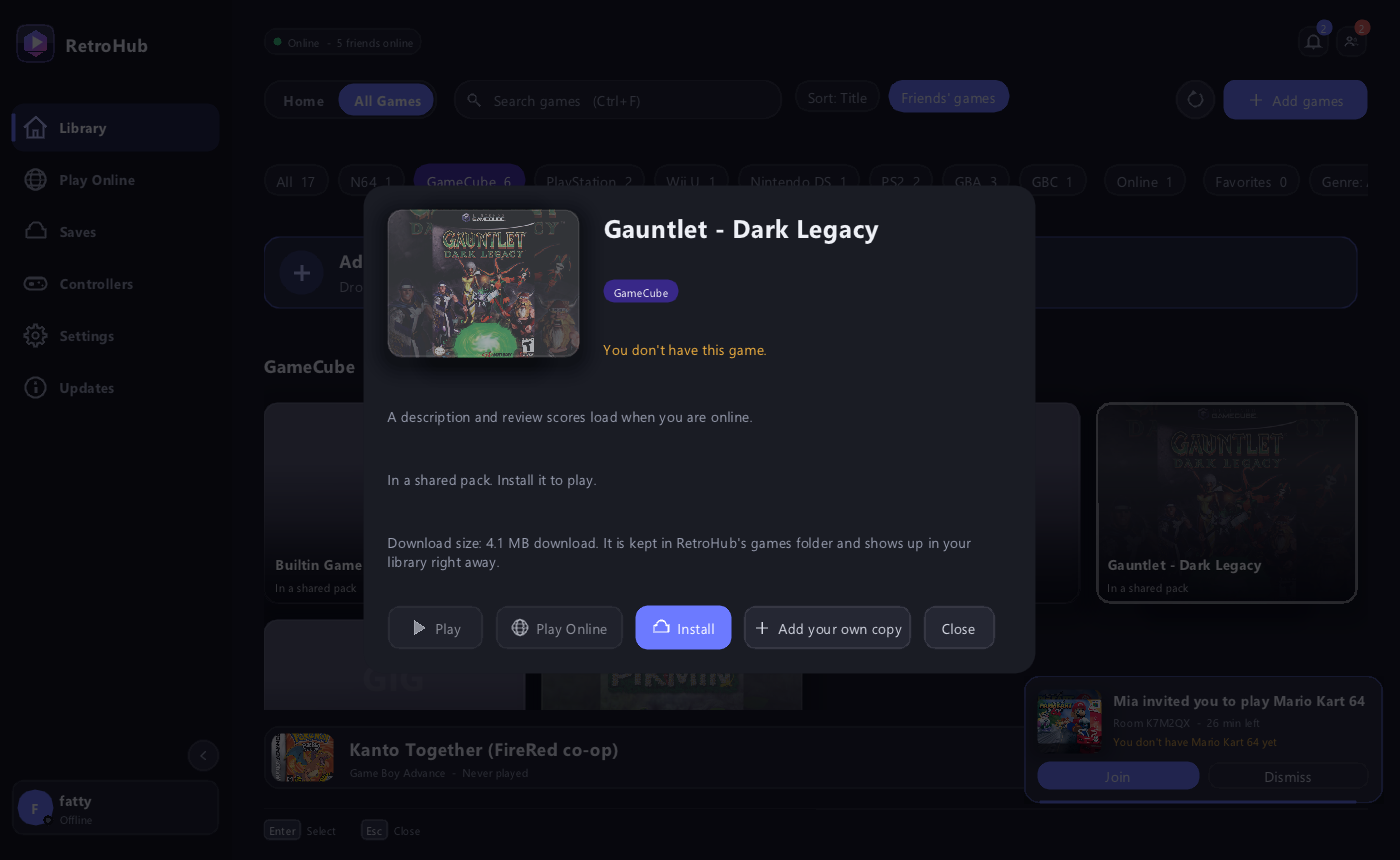
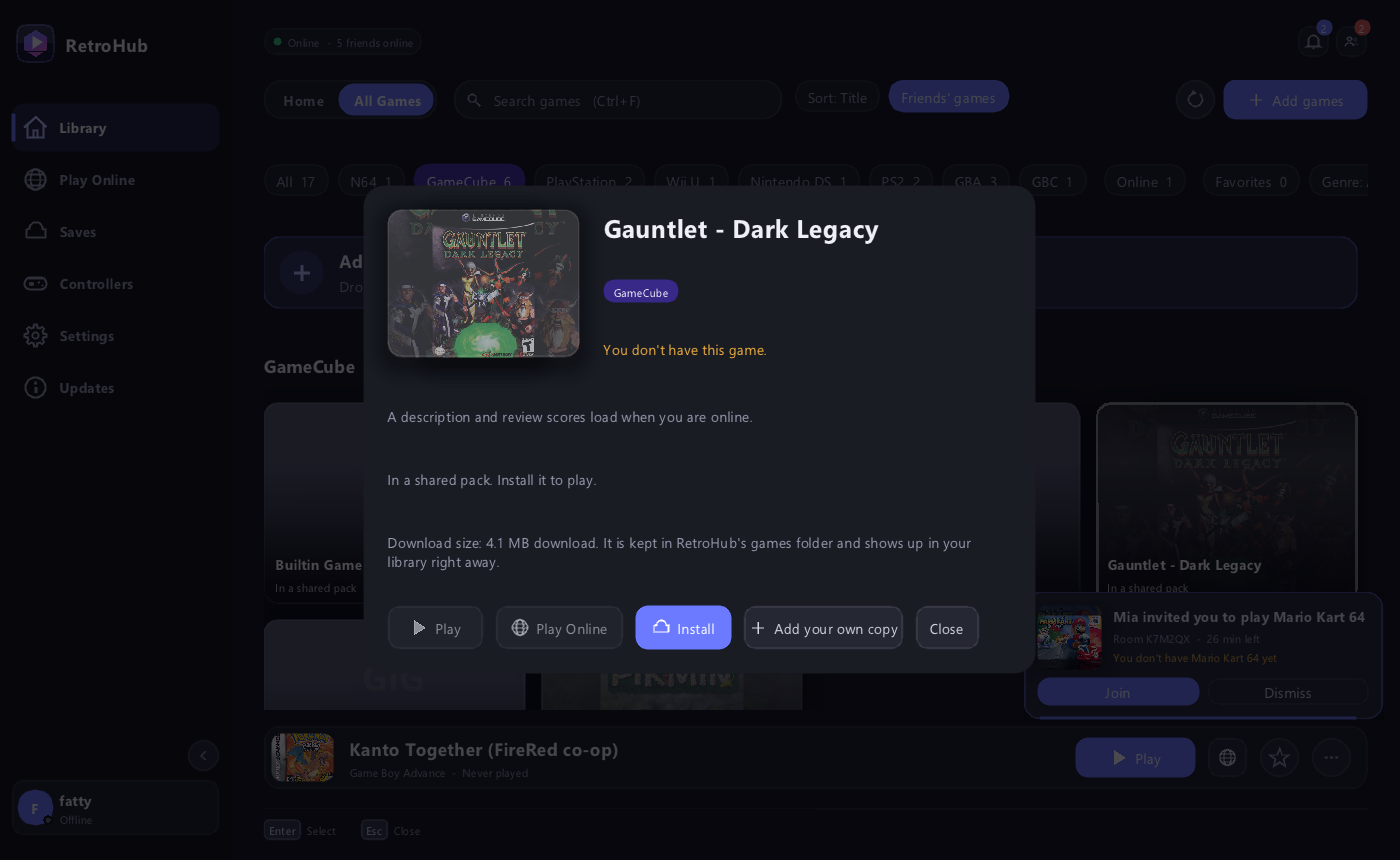
Install UX QA fixes: toasts clear of invite card and hero bar, install folder line, controller wording, details button margin, plainer errors

Changed region(s): [[0.7371, 0.6953, 0.9829, 0.9372], [0.5529, 0.7256, 0.7064, 0.7558]]

diff --git a/src/hub/gamepack.cpp b/src/hub/gamepack.cpp
@@ -572,11 +572,11 @@ std::string friendly_error(const std::string& raw) {
     if (raw.empty()) return "Something went wrong. Please try again.";
     if (raw == "cancelled") return "Cancelled.";
     if (raw.back() == '.' && raw.size() > 24 && raw.find(' ') != std::string::npos && std::isupper((unsigned char)raw[0])) return raw;   // already a plain sentence
-    const char* quota = "Google Drive is limiting downloads of this game right now (too many people have downloaded it today). Try again later, usually within a day.";
+    const char* quota = "The shared pack is busy (its download limit was reached). Try again later, usually within a day.";
     if (raw == "quota") return quota;
-    if (raw == "signin") return "The owner of this game's shared folder no longer shares it publicly, so Google Drive wants a sign-in. Ask them to share it again.";
+    if (raw == "signin") return "The shared pack is no longer public. Ask whoever shares it to share it again.";
     if (raw == "network unavailable" || raw == "could not reach Google Drive")
-        return "RetroHub could not reach Google Drive. Check your internet connection and try again.";
+        return "RetroHub could not reach the shared pack. Check your internet connection and try again.";
     if (raw == "download interrupted" || raw == "download incomplete")
         return "The connection dropped while downloading. Try again: it continues where it stopped.";
     if (raw == "disk write failed" || raw.rfind("cannot write", 0) == 0)
@@ -585,14 +585,14 @@ std::string friendly_error(const std::string& raw) {
         int code = std::atoi(raw.c_str() + 16);
         if (code == 404 || code == 410) return "This game's file was removed from the shared folder. Ask the owner to add it again.";
         if (code == 403 || code == 429) return quota;
-        if (code >= 500) return "Google Drive is having trouble right now. Try again in a few minutes.";
-        return "Google Drive refused the download (error " + std::to_string(code) + "). Try again later.";
+        if (code >= 500) return "The shared pack's server is having trouble right now. Try again in a few minutes.";
+        return "The shared pack refused the download (error " + std::to_string(code) + "). Try again later.";
     }
     if (raw.find("quota or permission") != std::string::npos) return quota;
     if (raw == "this console is not in the shared pack") return "The shared packs have no games for this console.";
     if (raw == "not in the shared pack") return "This game is no longer in the shared pack.";
     if (raw == "could not list the shared pack" || raw == "could not list the game's files")
-        return "RetroHub could not read the shared pack from Google Drive. Check your internet connection and try again.";
+        return "RetroHub could not read the shared pack. Check your internet connection and try again.";
     if (raw == "the shared copy has no files") return "The shared copy of this game has no files in it. Ask the owner to check the folder.";
     if (raw == "bad file id") return "The shared file's link looks damaged. Ask the owner to share it again.";
     return "Something went wrong (" + raw + "). Please try again.";

diff --git a/src/hub/frame.cpp b/src/hub/frame.cpp
@@ -64,7 +64,7 @@ void draw_update_popup() {
 
 /* ---------- toasts ---------- */
 
-void draw_toasts(float bottom, float right, float top) {
+float draw_toasts(float bottom, float right, float top) {
     double now = ImGui::GetTime();
     A.toasts.erase(std::remove_if(A.toasts.begin(), A.toasts.end(), [&](const Toast& t) { return t.until < now; }), A.toasts.end());
     ImDrawList* dl = ImGui::GetForegroundDrawList();
@@ -98,11 +98,12 @@ void draw_toasts(float bottom, float right, float top) {
             bool hov = mp.x >= b0.x && mp.x <= b1.x && mp.y >= b0.y && mp.y <= b1.y;
             dl->AddRectFilled(b0, b1, hov ? ui::scale_alpha(t.col, 0.55f) : ui::scale_alpha(t.col, 0.3f), sp(0.75f));
             dl->AddText(f, fs, ImVec2(b0.x + sp(1.f), b0.y + (b1.y - b0.y - ls.y) * 0.5f), ui::TEXT, t.action_label.c_str());
-            if (hov && ImGui::IsMouseClicked(0)) { auto fn = t.action; A.toasts[i].until = 0; if (fn) fn(); return; }
+            if (hov && ImGui::IsMouseClicked(0)) { auto fn = t.action; A.toasts[i].until = 0; if (fn) fn(); return bottom - y_bot; }
         }
         if (t.top) y_top += h + sp(1.f);
         else y_bot -= h + sp(1.f);
     }
+    return bottom - y_bot;
 }
 
 /* ---------- sidebar ---------- */
@@ -432,11 +433,13 @@ void draw_frame() {
     draw_overlays();
     global_input();
     A.popup_last_frame = ImGui::IsPopupOpen((const char*)nullptr, ImGuiPopupFlags_AnyPopupId | ImGuiPopupFlags_AnyPopupLevel);
-    draw_toasts(io.DisplaySize.y - footer_h - sp(1.5f), view_w - sp(3.f), sp(7.5f));
+    /* the library page has a now-playing / selected-game bar above the footer: toasts stack above it, never over its buttons */
+    const float bar_clear = A.page == Page::Library ? sp(10.5f) : 0.f;
+    const float toast_used = draw_toasts(io.DisplaySize.y - footer_h - sp(1.5f) - bar_clear, view_w - sp(3.f), sp(7.5f));
     ImGui::End();
     draw_gamepack_pill();
     fr_draw_panel(io.DisplaySize.x, io.DisplaySize.y);
     fr_draw_toasts(io.DisplaySize.x - (fr_docked ? fr_pw * FR.panel_t : (A.st.show_friends ? fr_pw * FR.panel_t : 0.f)) - sp(2.f),
-                   io.DisplaySize.y - footer_h - sp(1.5f) - (A.toasts.empty() ? 0.f : sp(9.f)));
+                   io.DisplaySize.y - footer_h - sp(1.5f) - bar_clear - toast_used);   // the invite card sits above the toast stack
 }
 

diff --git a/src/hub/friend_games_ui.cpp b/src/hub/friend_games_ui.cpp
@@ -279,7 +279,7 @@ void draw_gamepack_pill() {
     ImFont* fb = ui::F.bold;
     ImFont* fc = ui::F.cap;
     const float w = std::min(sp(92.f), io.DisplaySize.x * 0.9f), h = sp(8.5f);
-    const ImVec2 p0((io.DisplaySize.x - w) * 0.5f, io.DisplaySize.y - sp(13.f) - h), p1(p0.x + w, p0.y + h);
+    const ImVec2 p0((io.DisplaySize.x - w) * 0.5f, io.DisplaySize.y - sp(13.f) - (A.page == Page::Library ? sp(9.f) : 0.f) - h), p1(p0.x + w, p0.y + h);
     ui::shadow(dl, p0, p1, sp(2.f), 1.f);
     dl->AddRectFilled(p0, p1, ui::PANEL2, sp(2.f));
     dl->AddRect(p0, p1, ui::HAIRLINE, sp(2.f), 0, 1.f);
@@ -709,7 +709,8 @@ void draw_ghost_modal() {
     if (can_show) {
         ImGui::SameLine(0, sp(1.5f));
         if (ist_run) {
-            if (button("Cancel install", ImVec2(sp(17.f), bh), false, true, ui::Icon::Close)) gamepack_cancel(g.id);
+            if (button("Cancel", ImVec2(sp(12.f), bh), false, true, ui::Icon::Close)) gamepack_cancel(g.id);
+            if (ImGui::IsItemHovered()) ImGui::SetTooltip("Cancel this install");
         } else if (button(GFAIL.count(g.id) ? "Retry" : "Install", ImVec2(sp(12.f), bh), true, installable, ui::Icon::Cloud)) {
             gamepack_enqueue(g.sys, g.title, g.id);   // the popup stays: it shows the progress and turns into the game's details when done
         }
@@ -720,8 +721,8 @@ void draw_ghost_modal() {
         }
     }
     ImGui::SameLine(0, sp(1.5f));
-    if (button("Add your own copy", ImVec2(sp(21.f), bh), !installable && !ist_run, true, ui::Icon::Plus)) { ImGui::CloseCurrentPopup(); add_games_open(); }
+    if (button("Add your own copy", ImVec2(sp(20.f), bh), !installable && !ist_run, true, ui::Icon::Plus)) { ImGui::CloseCurrentPopup(); add_games_open(); }
     ImGui::SameLine(0, sp(1.5f));
-    if (button("Close", ImVec2(sp(9.f), bh))) ImGui::CloseCurrentPopup();
+    if (button("Close", ImVec2(sp(8.f), bh))) ImGui::CloseCurrentPopup();
     ImGui::EndPopup();
 }

diff --git a/src/hub/page_library.cpp b/src/hub/page_library.cpp
@@ -873,15 +873,21 @@ void draw_details_modal() {
         }
         dupes_details_section(e);
         ImGui::Dummy(ImVec2(0, sp(0.5f)));
-        ImGui::PushStyleColor(ImGuiCol_Text, ui::TEXT3);
-        ImGui::PushTextWrapPos(0.f);
-        ImGui::TextWrapped("%s", e.path.c_str());
-        ImGui::PopTextWrapPos();
-        ImGui::PopStyleColor();
-        if (gamepack_owns(e)) {   // installed from a shared pack: where it lives + Uninstall
+        if (gamepack_owns(e)) {   // installed from a shared pack: its folder (full path on hover) + Uninstall; the archive file name inside is not interesting
+            const std::string ft = hubgp::installed_folder_title(e.path, hubgp::pack_root());
+            const std::string full = hubgp::install_dir(sys_short(e), ft);
+            ImGui::PushStyleColor(ImGuiCol_Text, ui::TEXT3);
+            ImGui::TextUnformatted(ui::ellipsize(ui::F.cap, ImGui::GetFontSize(), "Installed in " + sys_short(e) + "\\" + ft + "  (RetroHub games folder)", ImGui::GetContentRegionAvail().x).c_str());
+            ImGui::PopStyleColor();
+            if (ImGui::IsItemHovered()) ImGui::SetTooltip("%s", full.c_str());
             ImGui::Dummy(ImVec2(0, sp(0.5f)));
-            text_wrapped_disabled("Installed from a shared pack into RetroHub's games folder (" + hubgp::pack_root() + ").");
             if (gamepack_uninstall_ui(e, sp(5.f))) ImGui::CloseCurrentPopup();
+        } else {
+            ImGui::PushStyleColor(ImGuiCol_Text, ui::TEXT3);
+            ImGui::PushTextWrapPos(0.f);
+            ImGui::TextWrapped("%s", e.path.c_str());
+            ImGui::PopTextWrapPos();
+            ImGui::PopStyleColor();
         }
     } else if (tab == TabSaves) {
         std::string sv;

diff --git a/src/hub/test_gamepack.cpp b/src/hub/test_gamepack.cpp
@@ -226,7 +226,8 @@ int main()
         CHECK(friendly_error("download interrupted").find("connection") != std::string::npos);
         CHECK(friendly_error("server answered 404").find("removed") != std::string::npos);
         CHECK(friendly_error("server answered 503").find("trouble") != std::string::npos);
-        CHECK(friendly_error("quota").find("limiting") != std::string::npos);
+        CHECK(friendly_error("quota").find("busy") != std::string::npos);
+        CHECK(friendly_error("download interrupted").find("Google") == std::string::npos && friendly_error("could not reach Google Drive").find("Google") == std::string::npos);
         CHECK(friendly_error("cancelled") == "Cancelled.");
         CHECK(friendly_error("Not enough free disk space: this game needs about 2.0 GB and the drive has 1.0 GB free.").rfind("Not enough", 0) == 0);
         CHECK(friendly_error("weird thing").find("weird thing") != std::string::npos);

diff --git a/src/hub/page_controllers.cpp b/src/hub/page_controllers.cpp
@@ -737,11 +737,11 @@ bool draw_players_strip(int players) {
     std::vector<hubctl::PadInfo> pads = hubctl::list_pads(st.port_order);
     bool clicked = false;
     ImGui::AlignTextToFramePadding();
-    ImGui::TextDisabled("Players:");
+    ImGui::TextDisabled("Controllers:");
     for (int i = 0; i < players && i < hubctl::PortAssign::kPorts; ++i) {
         ImGui::SameLine(0, sp(1.f));
         bool has = i < (int)pads.size();
-        std::string t = std::to_string(i + 1) + "  " + (has ? pads[i].name : std::string("none"));
+        std::string t = std::to_string(i + 1) + "  " + (has ? pads[i].name : std::string("no controller"));
         pill(t.c_str(), has ? COL_ACCENT : COL_PANEL2);
     }
     ImGui::SameLine(0, sp(1.5f));

diff --git a/src/hub/app.h b/src/hub/app.h
@@ -1025,7 +1025,7 @@ void draw_changelog_popup();    // call every frame: the one-time "What's new in
 
 /* ---- frame.cpp ---- */
 void draw_update_popup();
-void draw_toasts(float bottom, float right, float top);
+float draw_toasts(float bottom, float right, float top);   // returns the height the bottom stack used
 bool nav_item(Page pg, const char* label, ui::Icon ic, float w, float expand, ImU32 badge);
 void draw_footer(float h);
 void global_input();
